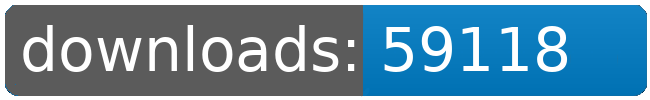
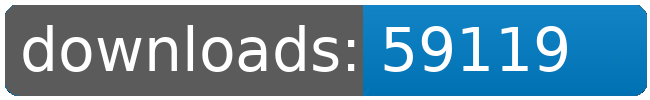
dl log written

Changed region(s): [[0.8, 0.3, 0.8923, 0.72]]

diff --git a/README.md b/README.md
@@ -76,8 +76,8 @@
 		<td>7705</td>
 		<td>7729</td>
 		<td>7751</td>
-		<td>7766</td>
-		<td>+ 15</td>
+		<td>7767</td>
+		<td>+ 16</td>
 	</tr>
 	<tr>
 		<td>Sheragi.Rebirth.Redux</td>
@@ -120,8 +120,8 @@
 		<td></td>
 		<td></td>
 		<td></td>
-		<td>59118</td>
-		<td>116</td>
+		<td>59119</td>
+		<td>117</td>
 	</tr>
 </table>
 </sub></sup>
@@ -168,8 +168,8 @@
 		<td>7705</td>
 		<td>7729</td>
 		<td>7751</td>
-		<td>7766</td>
-		<td>+ 15</td>
+		<td>7767</td>
+		<td>+ 16</td>
 	</tr>
 	<tr>
 		<td>Korunak.Defense.Drones</td>
@@ -245,8 +245,8 @@
 		<td></td>
 		<td></td>
 		<td></td>
-		<td>59118</td>
-		<td>116</td>
+		<td>59119</td>
+		<td>117</td>
 	</tr>
 </table>
 </sub></sup>
